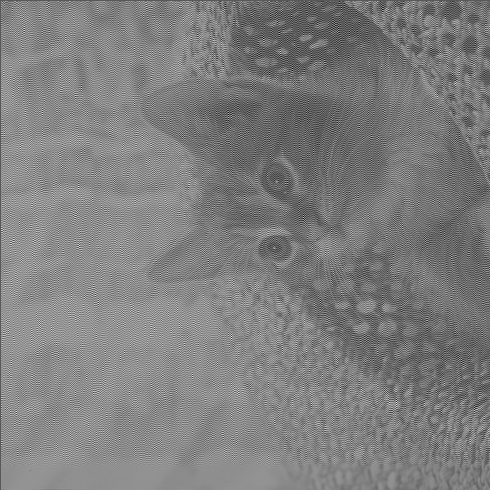
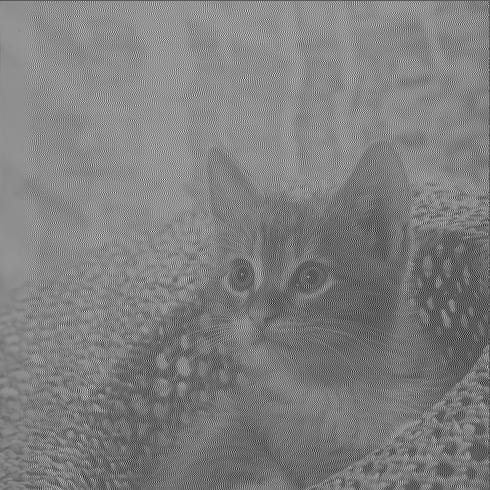
rotation and pipeline stuff

diff --git a/python/src/rotation.py b/python/src/rotation.py
@@ -1,6 +1,7 @@
 import numpy as np
 import img
 
+
 def fix(data):
     """
     returns an image rotated by 90 degrees
@@ -12,10 +13,11 @@ def fix(data):
 
     return data
 
+
 def get_transformation_array(angle: float):
     """
-        Builds a pixel coordinate transformation table
-        so 2x2
+    Builds a pixel coordinate transformation table
+    so 2x2
     """
     radians = np.deg2rad(angle)
     sin = np.sin(radians)
@@ -24,10 +26,7 @@ def get_transformation_array(angle: float):
     sin = np.round(sin, decimals=10)
     cos = np.round(cos, decimals=10)
 
-    return np.array([
-    [cos, -sin],
-    [sin, cos]
-    ])
+    return np.array([[cos, -sin], [sin, cos]])
 
 
 def rotate_picture(image: np.ndarray, angle: float):
@@ -68,9 +67,15 @@ def rotate_picture(image: np.ndarray, angle: float):
 
 
 def main():
-    image = img.philippe()
+    image = img.rotated()
+    img.save("rotated-orig.png", image)
     rotated = fix(image)
-    img.save("rotated.png", rotated)
+    img.save("rotated-fixed.png", rotated)
+
+    image = img.philippe()
+    image = fix(image)
+    img.save("rotated.png", image)
+
 
 if __name__ == "__main__":
     main()

diff --git a/presentation/00-main.tex b/presentation/00-main.tex
@@ -15,6 +15,7 @@
 
 
 \input{theming.tex}
+% \usetheme{metropolis}
 
 \title[Algèbre linéaire et filtres numériques]{S5-APP4: Algèbre linéaire et filtres numériques}
 \author[Benjamin C. \& Shawn C.]{
